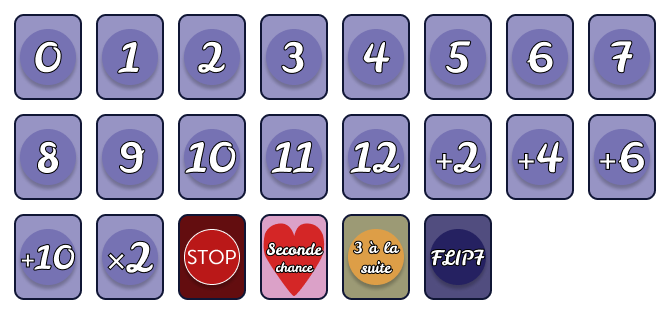
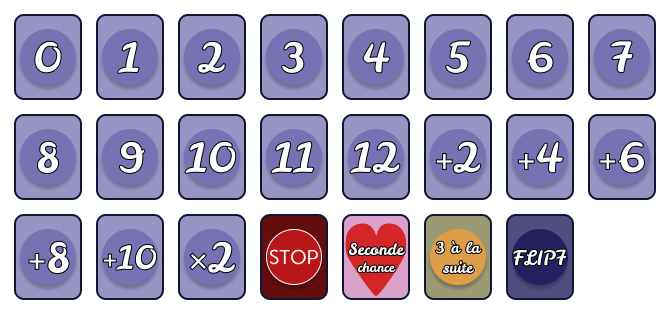
bug fix + améliorations visuels

Changed region(s): [[0.2687, 0.6592, 0.8657, 0.9745], [0.1493, 0.7739, 0.2388, 0.8885], [0.0299, 0.7739, 0.1194, 0.8885]]

diff --git a/src/main/kotlin/vue/DeroulementPartieVue.kt b/src/main/kotlin/vue/DeroulementPartieVue.kt
@@ -28,6 +28,8 @@ class DeroulementPartieVue : BorderPane() {
     private val labelsScoresJoueurs = mutableListOf<Label>()
     private val zonesCartesJoueurs = mutableListOf<HBox>()
     private val casesJoueurs = mutableListOf<VBox>()
+    private val NomsGrille = mutableListOf<Label>()
+    private val NomsScores = mutableListOf<Label>()
 
     init {
         // Grille des joueurs
@@ -74,11 +76,11 @@ class DeroulementPartieVue : BorderPane() {
         zoneScores.children.add(labelScoreTotal)
 
         for (i in 0 until 4) {
-            val nomJoueurLabel = Label()
+            val nomJoueurLabel = Label("Absent")
             val scoreLabel = Label("0")
             nomJoueurLabel.style = "-fx-text-fill: black;"
             scoreLabel.style = "-fx-text-fill: black;"
-
+            NomsScores.add(nomJoueurLabel)
             val scoreBox = VBox(nomJoueurLabel, scoreLabel)
             scoreBox.alignment = Pos.CENTER
             labelsScoresJoueurs.add(scoreLabel)
@@ -107,7 +109,8 @@ class DeroulementPartieVue : BorderPane() {
 
         // Nom du joueur et symboles bonus
         val infoJoueur = HBox(10.0)
-        val nomJoueur = Label("Joueur ${index + 1}")
+        val nomJoueur = Label("Absent")
+        NomsGrille.add(nomJoueur)
         val zoneBonus = HBox(5.0) // Contiendrait les cœurs, x2, etc.
         infoJoueur.children.addAll(nomJoueur, zoneBonus)
 
@@ -122,7 +125,14 @@ class DeroulementPartieVue : BorderPane() {
 
     // --- MÉTHODES DE MISE À JOUR POUR LE CONTRÔLEUR ---
 
-
+    fun initialisationNomJoueur(index: Int, nom: String) {
+        if (index < NomsGrille.size) {
+            NomsGrille[index].text = nom
+        }
+        if (index < NomsScores.size) {
+            NomsScores[index].text = nom
+        }
+    }
 
     fun mettreAJourScore(indexJoueur: Int, nouveauScore: Int) {
         labelsScoresJoueurs[indexJoueur].text = nouveauScore.toString()
@@ -136,11 +146,9 @@ class DeroulementPartieVue : BorderPane() {
         conteneurCarteTiree.children.add(outilsCartes.getImageCarte(colonne, ligne))
     }
     fun joueurElimine(indexJoueur: Int){
-        // On applique un style visuel "éliminé" (fond sombre/gris ou bordure rouge)
         casesJoueurs[indexJoueur].style = "-fx-background-color: #2c1a1a; -fx-background-radius: 5;"
     }
     fun joueurStop(indexJoueur: Int){
-        // On applique un style visuel "éliminé" (fond sombre/gris ou bordure rouge)
         casesJoueurs[indexJoueur].style = "-fx-background-color: #808080; -fx-background-radius: 5;"
     }
     fun fixeActionSurCaseJoueur(indexJoueur: Int, action: () -> Unit) {
@@ -154,12 +162,8 @@ class DeroulementPartieVue : BorderPane() {
         // 1. On efface la dernière carte piochée au centre
         conteneurCarteTiree.children.clear()
 
-        // 2. On nettoie la zone de chaque joueur
         for (i in casesJoueurs.indices) {
-            // On vide les cartes de la main
             zonesCartesJoueurs[i].children.clear()
-
-            // On remet la couleur bleue d'origine (enlève l'effet "Brûlé")
             casesJoueurs[i].style = "-fx-background-color: #4a548c; -fx-padding: 10; -fx-background-radius: 10;"
         }
     }

diff --git a/src/main/kotlin/utilitaires/OutilsAffichageCartes.kt b/src/main/kotlin/utilitaires/OutilsAffichageCartes.kt
@@ -7,10 +7,9 @@ import javafx.scene.image.ImageView
 
 class OutilsAffichageCartes {
 
-    // 1. Chargement de l'image contenant toutes les cartes (à faire une seule fois)
+    // 1. Chargement de l'image contenant toutes les cartes
     private val spriteSheet = Image(javaClass.getResourceAsStream("/images/Cartes.png"))
 
-    // 2. Tes dimensions exactes
     private val LARGEUR_CARTE = 68.0
     private val HAUTEUR_CARTE = 86.0
 
@@ -19,7 +18,6 @@ class OutilsAffichageCartes {
     private val ESPACE_Y = 14.0
 
     // 3. Marge initiale : l'espace entre le bord de l'image globale et la première carte "0"
-    // (Si la carte "0" commence tout à fait au bord du fichier PNG, passe ces valeurs à 0.0)
     private val OFFSET_INITIAL_X = 14.0 // Valeur suggérée à tester
     private val OFFSET_INITIAL_Y = 14.0 // Valeur suggérée à tester
 
@@ -38,10 +36,7 @@ class OutilsAffichageCartes {
         // Le Viewport masque tout le reste de l'image
         imageView.viewport = Rectangle2D(positionX, positionY, LARGEUR_CARTE, HAUTEUR_CARTE)
 
-        // Si tes cartes (68x86) rendent un peu trop petit sur ta grande vue,
-        // tu peux les redimensionner ici, JavaFX gardera la netteté :
-        // imageView.fitWidth = 100.0
-        // imageView.isPreserveRatio = true
+
 
         return imageView
     }
@@ -62,15 +57,16 @@ fun obtenirCoordonneesCarte(carte: Carte): Pair<Int, Int> {
                     2 -> Pair(5, 1)
                     4 -> Pair(6, 1)
                     6 -> Pair(7, 1)
-                    10 -> Pair(0, 2)
-                    else -> Pair(5, 2)
+                    8 -> Pair(0, 2)
+                    10 -> Pair(1, 2)
+                    else -> Pair(6, 2)
                 }
             }
 
-            is CarteBonusMultiplie -> Pair(1, 2)
-            is CarteStop -> Pair(2, 2)
-            is Carte2ndeChance -> Pair(3, 2)
-            is Carte3aLaSuite -> Pair(4, 2)
+            is CarteBonusMultiplie -> Pair(2, 2)
+            is CarteStop -> Pair(3, 2)
+            is Carte2ndeChance -> Pair(4, 2)
+            is Carte3aLaSuite -> Pair(5, 2)
 
             else -> Pair(5, 2)
         }

diff --git a/src/main/kotlin/controleur/ControleurJeu.kt b/src/main/kotlin/controleur/ControleurJeu.kt
@@ -28,6 +28,12 @@ class ControleurJeu(private val vue: DeroulementPartieVue, private val modele: F
                 selectionnerCible(i)
             }
         }
+        val joueurs = modele.partieEnCours?.joueurs
+        if (joueurs != null) {
+            for(i in 0 until joueurs.size) {
+                vue.initialisationNomJoueur(i, joueurs[i].donneNom())
+            }
+        }
 
     }
 

diff --git a/src/main/kotlin/Main.kt b/src/main/kotlin/Main.kt
@@ -1,6 +1,3 @@
-import iut.info1.flip7.flip7.controleur.ControleurJeu
-import iut.info1.flip7.flip7.modele.Flip7Manager
-import iut.info1.flip7.flip7.vue.DeroulementPartieVue
 import iut.info1.flip7.flip7.vue.MenuPrincipalVue
 import javafx.application.Application
 import javafx.scene.Parent

diff --git a/src/main/kotlin/vue/InitialisationVue.kt b/src/main/kotlin/vue/InitialisationVue.kt
@@ -110,7 +110,7 @@ class InitialisationVue : BorderPane() {
 
         bas.alignment = Pos.CENTER
         bas.spacing = 100.0
-        bas.children.addAll(basAjouter, boutonDemarrer)
+        bas.children.addAll(basAjouter,labelErreur, boutonDemarrer,)
         this.bottom = bas
     }
 
